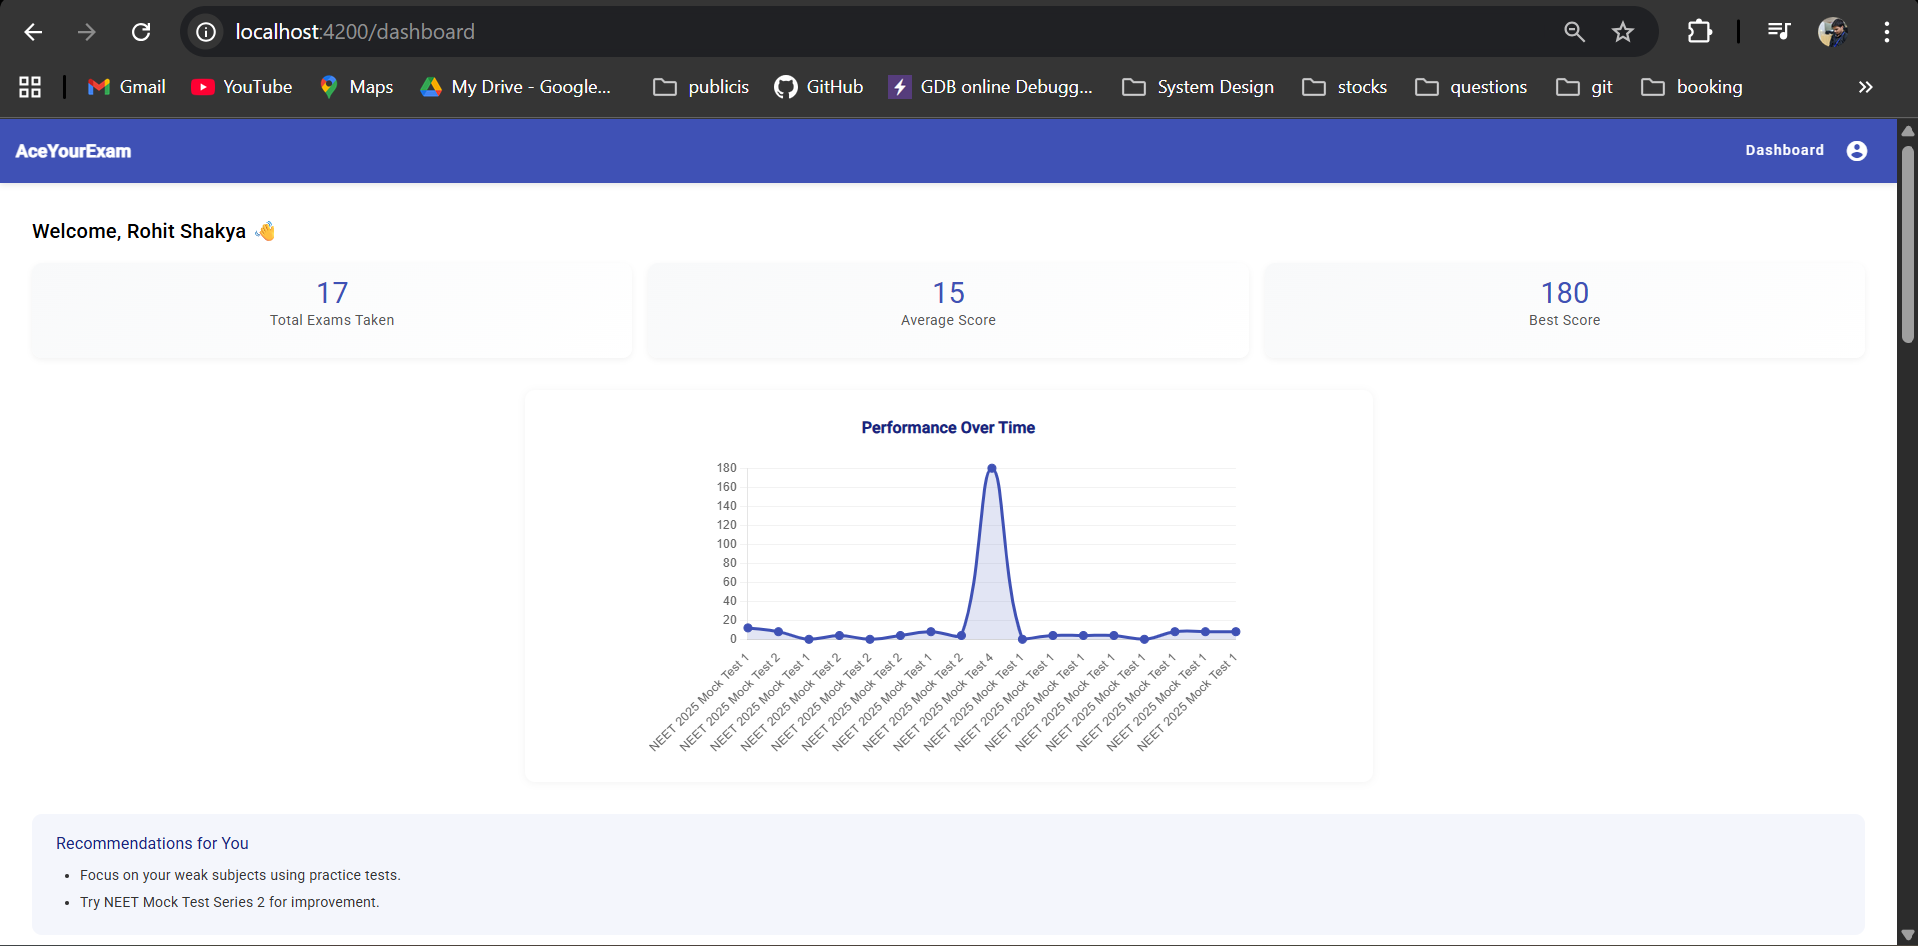
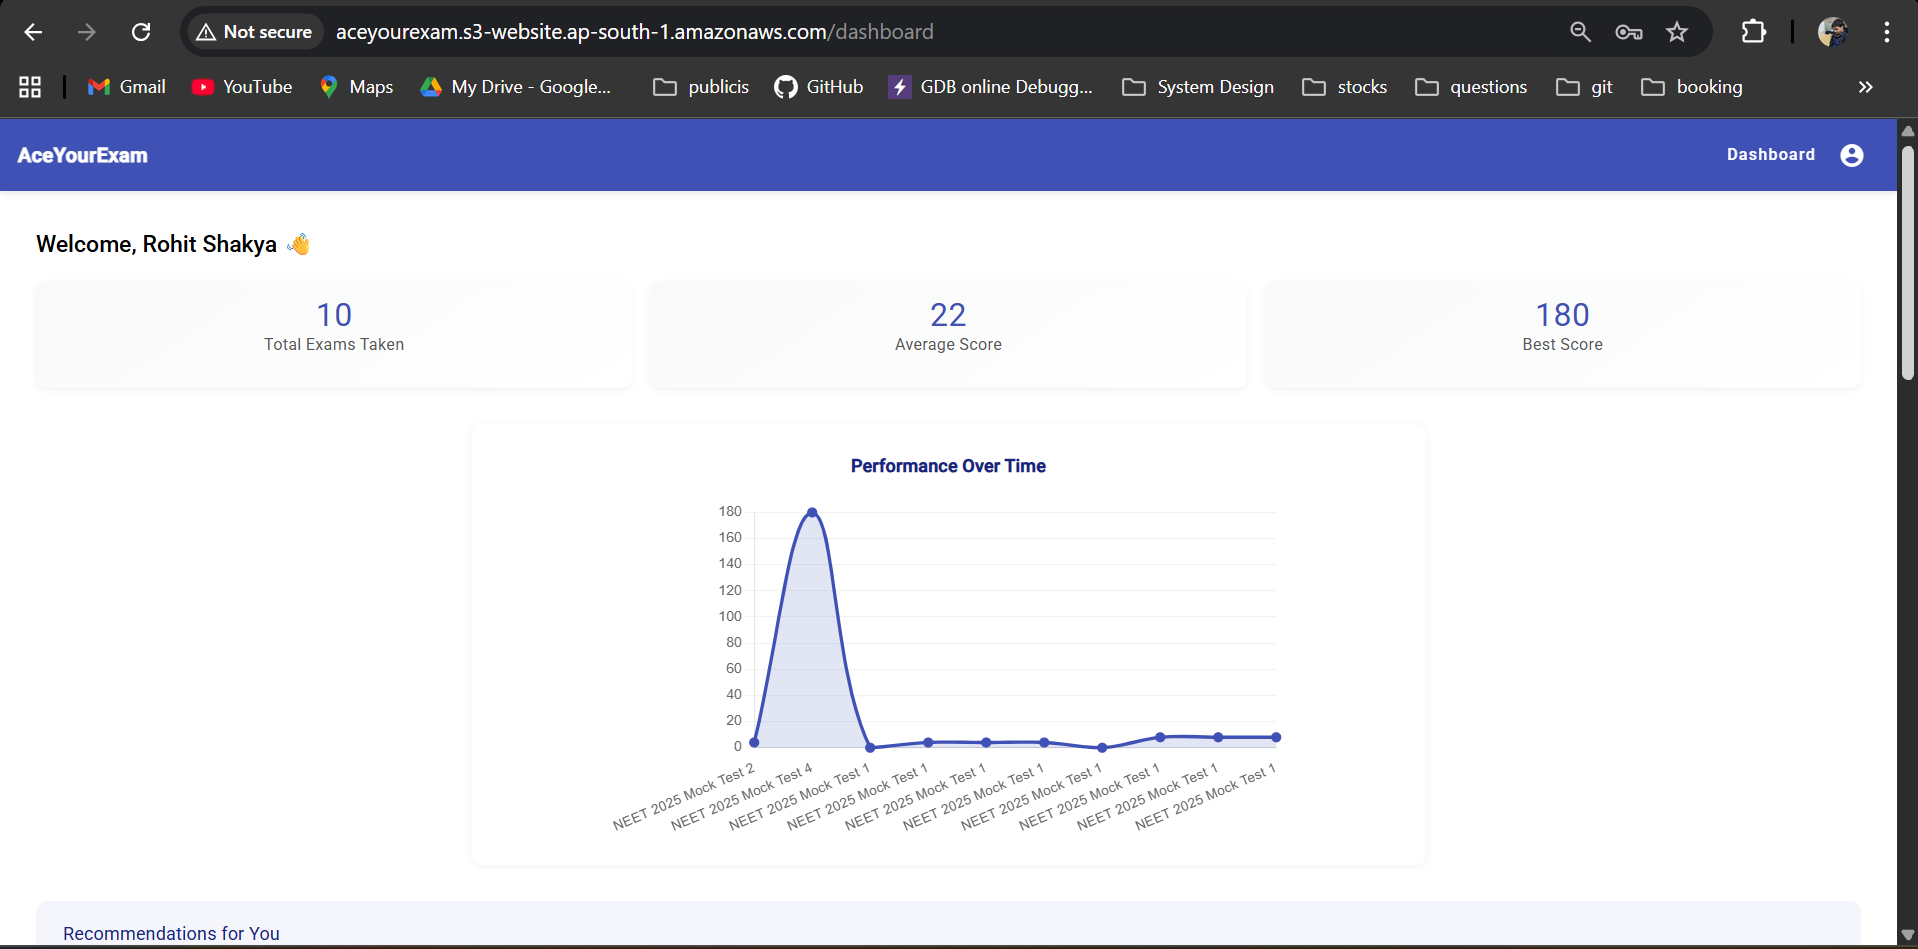
Updated screenshots from AWS deployment

diff --git a/README.md b/README.md
@@ -28,6 +28,31 @@ The platform focuses on **exam realism, accuracy, and detailed analytics**, prov
 - AOP-based logging for better observability and debugging
 ---
 
+## ☁ Production Deployment (AWS)
+
+AceYourExam is deployed on AWS using a **clean, production-style architecture** with clear separation between frontend, backend, and database.
+
+- **Frontend**
+  - Angular application hosted as a **static website on Amazon S3**
+
+- **Backend**
+  - Spring Boot REST APIs deployed on **AWS EC2**
+  - **Nginx** used as a reverse proxy for API traffic
+
+- **Database**
+  - PostgreSQL hosted on **AWS RDS**
+  - Deployed in a **private subnet**
+  - Database access restricted via Security Groups (EC2 → RDS only)
+
+- **Data Migration**
+  - Local PostgreSQL data migrated to AWS RDS using `pg_dump` / `pg_restore` via EC2
+
+- **Cost Considerations**
+  - Free-tier friendly setup (EC2, RDS, S3)
+  - No load balancers or NAT gateways
+
+---
+
 ## 🔐 Authentication & Security
 
 AceYourExam implements a **production-grade authentication system** with both traditional and modern login flows.
